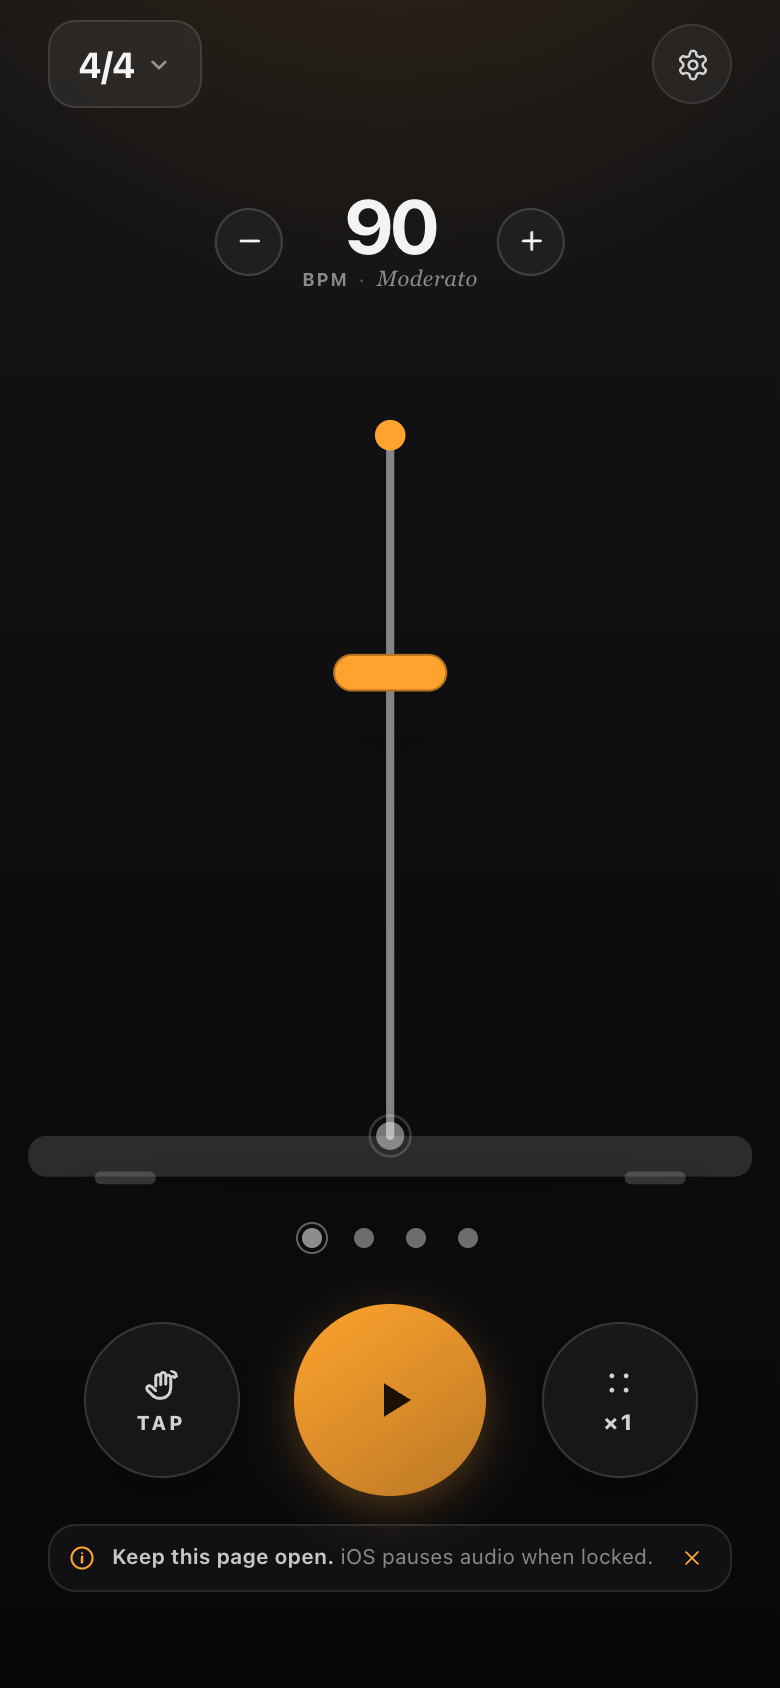
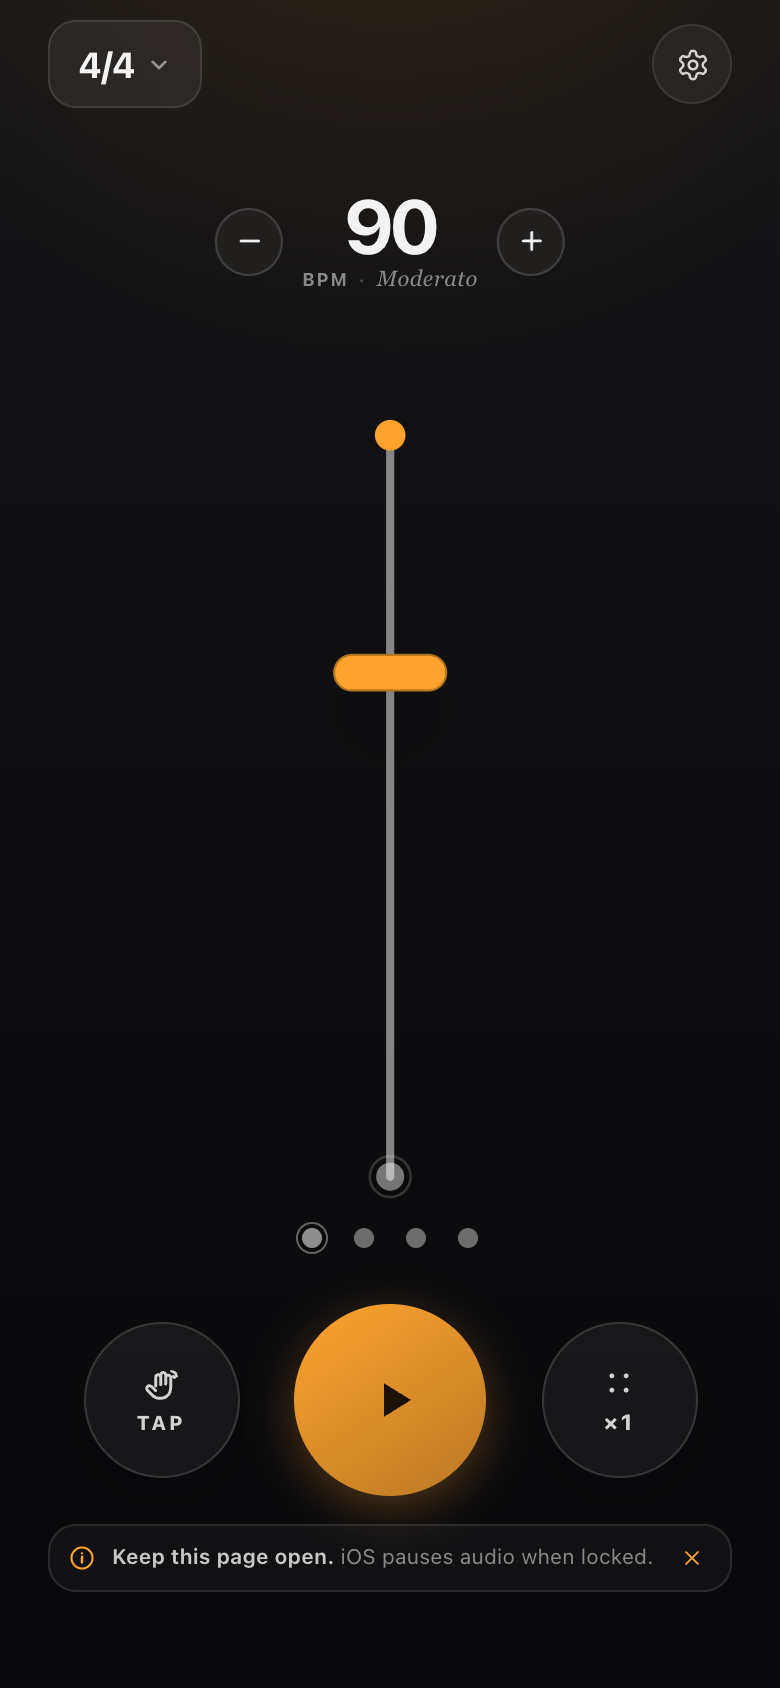
Remove the metronome base

Changed region(s): [[0.0308, 0.6469, 0.9846, 0.7085]]

diff --git a/Web/index.html b/Web/index.html
@@ -506,16 +506,6 @@
     filter: drop-shadow(0 18px 20px color-mix(in srgb, var(--shadow) 42%, transparent));
   }
 
-  .metronome-floor {
-    fill: color-mix(in srgb, var(--shadow) 30%, transparent);
-  }
-  .metronome-base {
-    fill: color-mix(in srgb, var(--text) 14%, transparent);
-    stroke: none;
-  }
-  .metronome-foot {
-    fill: color-mix(in srgb, var(--text) 18%, transparent);
-  }
   .metronome-rod {
     stroke: color-mix(in srgb, var(--text) 52%, transparent);
     stroke-width: 3.2;
@@ -1415,19 +1405,14 @@
     <section class="metronome-section" aria-label="Metronome">
       <div id="metronome" class="metronome" role="group" aria-label="Metronome, 90 BPM">
         <svg id="metronomeSvg" class="metronome-svg" viewBox="0 0 300 420" aria-hidden="true">
-          <ellipse class="metronome-floor" cx="150" cy="408" rx="126" ry="8" />
-          <rect class="metronome-base" x="8" y="394" width="284" height="16" rx="7"></rect>
-          <rect class="metronome-foot" x="34" y="408" width="24" height="5" rx="2.5"></rect>
-          <rect class="metronome-foot" x="242" y="408" width="24" height="5" rx="2.5"></rect>
-
           <g id="rodGroup">
-            <line class="metronome-rod" x1="150" y1="394" x2="150" y2="115"></line>
+            <line class="metronome-rod" x1="150" y1="410" x2="150" y2="115"></line>
             <rect id="metronomeWeight" class="metronome-weight" x="128" y="205" width="44" height="14" rx="7"></rect>
             <circle class="metronome-tip" cx="150" cy="119" r="6"></circle>
           </g>
 
-          <circle class="metronome-pivot-ring" cx="150" cy="394" r="8"></circle>
-          <circle class="metronome-pivot" cx="150" cy="394" r="5.5"></circle>
+          <circle class="metronome-pivot-ring" cx="150" cy="410" r="8"></circle>
+          <circle class="metronome-pivot" cx="150" cy="410" r="5.5"></circle>
         </svg>
 
         <div class="tempo-readout">
@@ -2378,7 +2363,7 @@
   }
 
   function setRodAngle(angle) {
-    dom.rodGroup.setAttribute("transform", `rotate(${angle.toFixed(2)} 150 394)`);
+    dom.rodGroup.setAttribute("transform", `rotate(${angle.toFixed(2)} 150 410)`);
   }
 
   function renderBPM() {

diff --git a/Web/sw.js b/Web/sw.js
@@ -1,5 +1,5 @@
 /* Tempo Web — offline cache. Bump CACHE_VERSION when assets change. */
-const CACHE_VERSION = "tempo-web-v26";
+const CACHE_VERSION = "tempo-web-v27";
 const APP_SHELL = [
   "./",
   "./index.html",

diff --git a/Web/README.md b/Web/README.md
@@ -106,7 +106,7 @@ ipconfig getifaddr en0
 
 ## 更新与排错
 
-- **改了文件但 iPhone 还看到旧版**：Service Worker 会优先返回缓存。把 `sw.js` 里的 `CACHE_VERSION` 递增（当前是 `tempo-web-v26`，下一次改成 `tempo-web-v27`），重新部署，再关闭 / 重开主屏幕图标。
+- **改了文件但 iPhone 还看到旧版**：Service Worker 会优先返回缓存。把 `sw.js` 里的 `CACHE_VERSION` 递增（当前是 `tempo-web-v27`，下一次改成 `tempo-web-v28`），重新部署，再关闭 / 重开主屏幕图标。
 - **点播放没有声音**：确认不是静音拨片、系统音量不是 0；先点一下页面任意按钮再点播放（iOS 要求用户手势后才能启动音频）；如果之前接过来电或耳机，刷新页面重试。
 - **屏幕自动变暗**：Safari 不支持 Wake Lock 时，网页无法阻止自动锁定。把自动锁定设为「永不」，或使用原生版。
 - **离线打不开**：Service Worker 只在 HTTPS 或 `localhost` 下工作；通过局域网 IP 的 HTTP 地址访问不会缓存。
